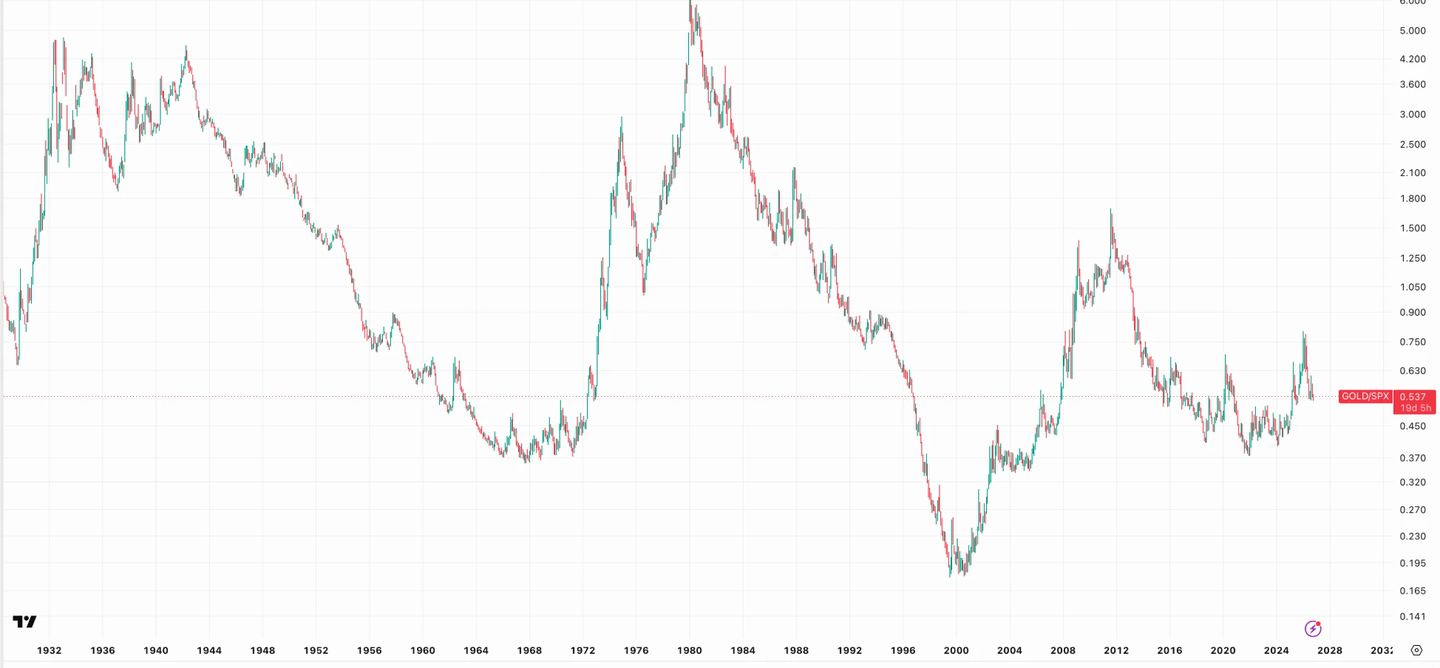
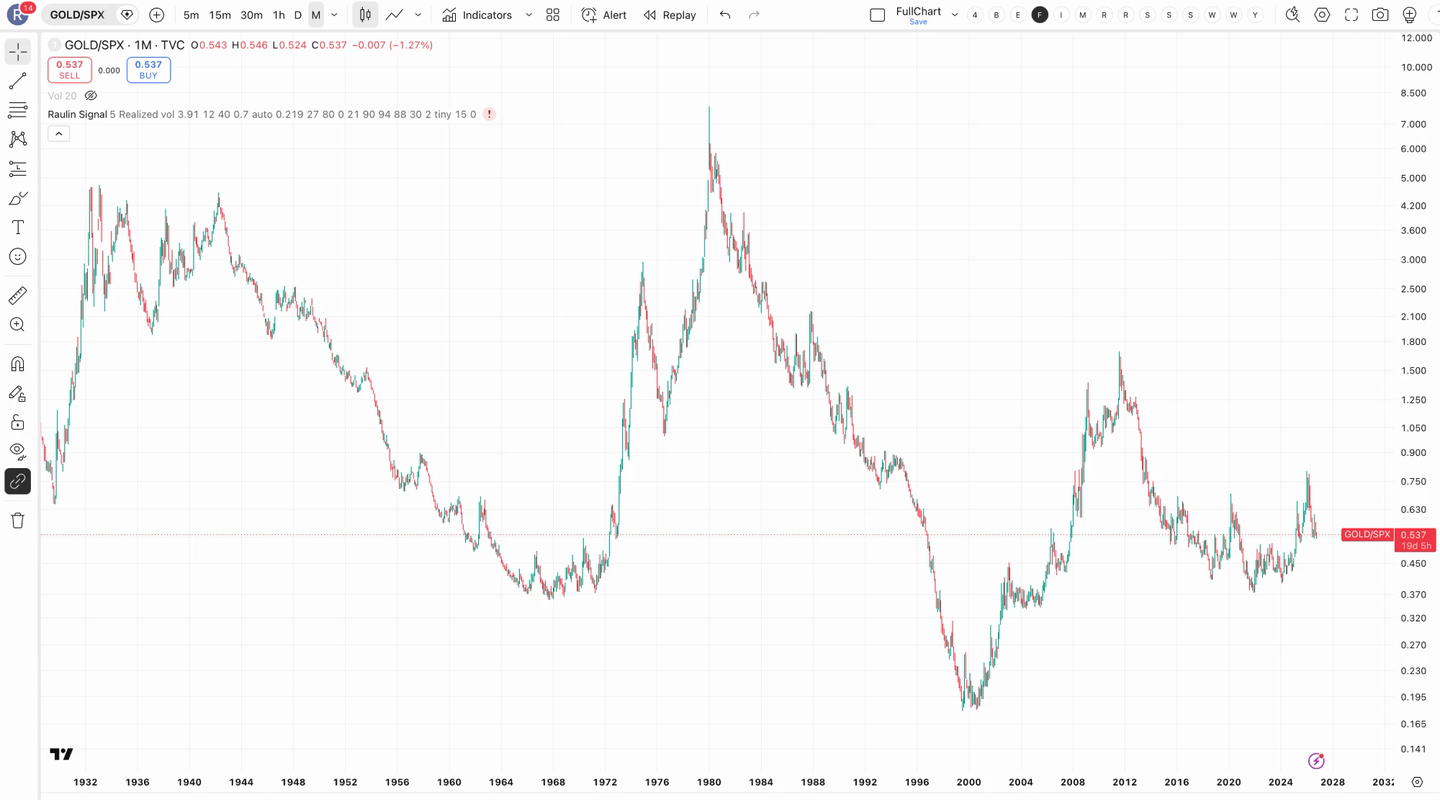
Charts ungeschnitten, mit Ticker und Indikatorzeile
Seine Ansage vom 11.10.: Der Ticker und die Leiste sollen zu sehen sein, und
der Raulin-Indikator muss nicht versteckt werden. Damit ist auch der
Bitcoin-Chart mit den Bullish/Bearish-Faehnchen verwendbar -- der steht jetzt
im Zyklus-Guide.

diff --git a/zyklus.html b/zyklus.html
@@ -192,19 +192,19 @@ footer a:hover { color: var(--gruen); }
       Alle vier Jahre.</p>
   </section>
 
-<!-- TRADINGVIEW-PLATZ · Datei: zyklus_btc.webp
-     Zu ziehen: <code>BITSTAMP:BTCUSD</code> · Monat · log an · Zeitraum „alle" · senkrechte Linien auf Dez 2013, Dez 2017, Nov 2021, Okt 2025
-     Hintergrund hell. Sobald das Bild im Ordner liegt, die naechsten sechs
-     Zeilen entkommentieren und diesen Kommentar loeschen.
-    <figure>
-      <img src="zyklus_btc.webp" alt="Bitcoin seit 2013, Monatschart, logarithmisch">
+<figure>
+      <img src="zyklus_btc.png" alt="Bitcoin im Wochenchart mit den Signalen aus meinem eigenen Indikator">
       <figcaption>
-        <strong>Dasselbe Muster, ungeglättet.</strong> Vier Hochs, vier Abstürze, und jedes Mal
-        dachten alle, diesmal sei es anders.
+        <strong>Dieselben Phasen im Kurs.</strong> Wochenkerzen, dazu mein eigener Indikator:
+        das Band zeigt die erwartete Spanne, die Fähnchen die Wechsel zwischen bullisch und
+        bärisch. Man sieht den Lauf bis zum Hoch im Oktober 2025, den Rückgang bis in den
+        Sommer 2026 und die Erholung seitdem.
+        <br><br>
+        <em>Chart: TradingView, BTCUSD bei Bitstamp, Wochenkerzen, eigene Aufnahme. Die
+        Signale sind meine eigene Auswertung, keine Empfehlung.</em>
       </figcaption>
     </figure>
--->
-  <section>
+      <section>
     <div class="schritt">Der eigentliche Punkt</div>
     <h2>Warum alle dachten, es wäre diesmal vorbei</h2>
     <div class="block" style="--rand: var(--gold)">

diff --git a/rohstoff.html b/rohstoff.html
@@ -230,7 +230,8 @@ footer a:hover { color: var(--gruen); }
         dazwischen die Aktienjahrzehnte, am deutlichsten das Tief im Jahr 2000. Heute steht die
         Linie bei 0,54, ungefähr auf dem Niveau von 1972 und 1996.
         <br><br>
-        <em>Chart: TradingView, Symbol GOLD/SPX, Monatskerzen, logarithmische Skala.</em>
+        <em>Chart: TradingView, Symbol GOLD/SPX, Monatskerzen, logarithmische Skala, eigene
+        Aufnahme.</em>
       </figcaption>
     </figure>
     <p>Die interessante Frage ist nicht „steigt Gold?", sondern <strong>„steigt Gold schneller
